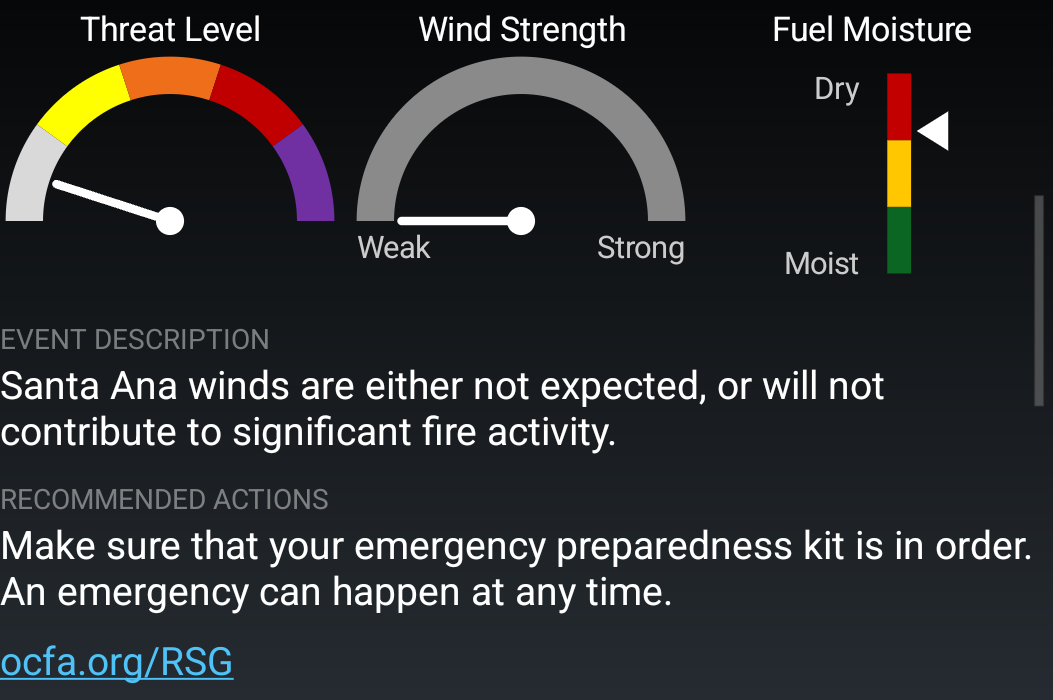
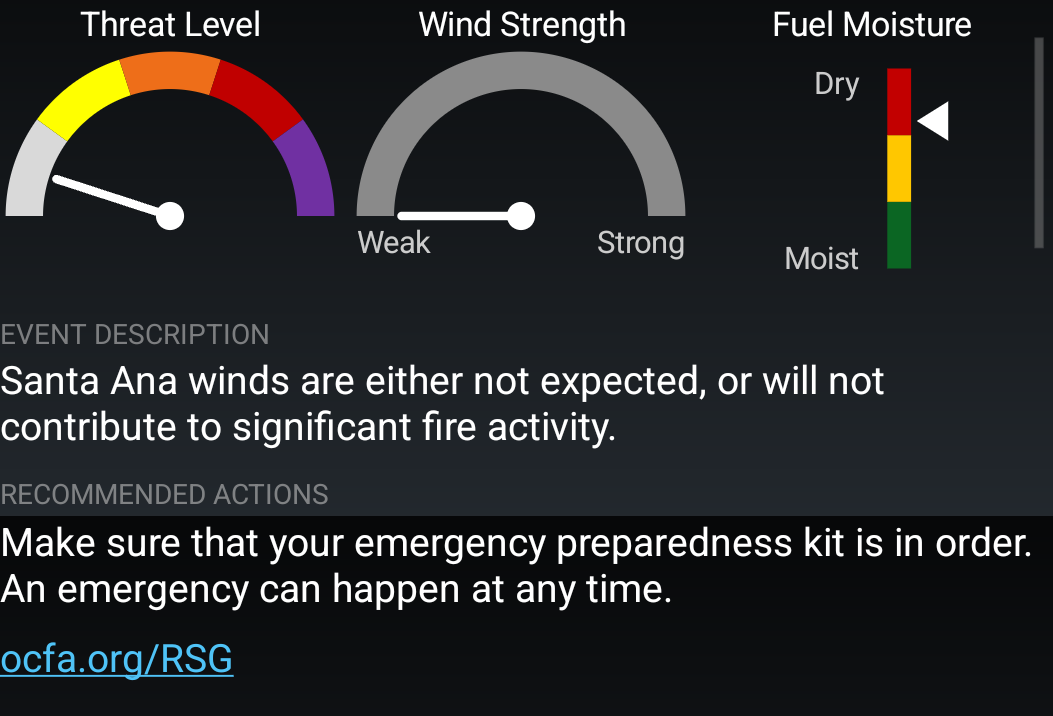
Atmosphere 0.11: version, download block, status; SAWTI page pictures
PLUGIN_VERSION 0.11 for 5.6, 5.7 and 5.8 (0.10 was the 5.8 picture build,
not published). README and guide download blocks re-stamped to v0.11;
status and capabilities name Fire Danger, utility stations and the rest.

SAWTI page pictures retaken from the signed 0.10 (top, gauges and actions,
All Zones, zone picker): the old set was dated Oct 1. The Fire Weather
Zones manual page puts its text beside its pictures; the new zones map is
taller and the text had spilled to a page of its own (53 pages).

diff --git a/README.md b/README.md
@@ -1,10 +1,10 @@
 ATAK Plugin — Atmosphere
 
-**Download Atmosphere 0.9** (pick the one matching your ATAK-CIV version, sideload, then load it in ATAK's Plugins manager):
+**Download Atmosphere 0.11** (pick the one matching your ATAK-CIV version, sideload, then load it in ATAK's Plugins manager):
 
-- **ATAK-CIV 5.6:** https://github.com/takwerx/atmosphere/releases/download/v0.9/ATAK-Plugin-Atmosphere-0.9--5.6.0-civ-release.apk
-- **ATAK-CIV 5.7:** https://github.com/takwerx/atmosphere/releases/download/v0.9/ATAK-Plugin-Atmosphere-0.9--5.7.0-civ-release.apk
-- **ATAK-CIV 5.8:** https://github.com/takwerx/atmosphere/releases/download/v0.9/ATAK-Plugin-Atmosphere-0.9--5.8.0-civ-release.apk
+- **ATAK-CIV 5.6:** https://github.com/takwerx/atmosphere/releases/download/v0.11/ATAK-Plugin-Atmosphere-0.11--5.6.0-civ-release.apk
+- **ATAK-CIV 5.7:** https://github.com/takwerx/atmosphere/releases/download/v0.11/ATAK-Plugin-Atmosphere-0.11--5.7.0-civ-release.apk
+- **ATAK-CIV 5.8:** https://github.com/takwerx/atmosphere/releases/download/v0.11/ATAK-Plugin-Atmosphere-0.11--5.8.0-civ-release.apk
 
 All releases: https://github.com/takwerx/atmosphere/releases
 
@@ -32,7 +32,9 @@ Capabilities:
   - Weather stations around you, colored against the Red Flag criteria of
     their own fire weather zone (the California, Great Basin, Southwest and
     Northwest annual operating plans are transcribed), with every reading and
-    the criteria behind a tap, favorites, and a list with counted filters.
+    the criteria behind a tap, favorites, and a list with counted filters. In
+    California, the utilities' stations too (SCE, SDG&E, PG&E, HPWREN, from
+    Cal OES), drawn apart and saying their wind reads higher than a RAWS.
   - River gauges colored by flood category, with stage, flow, flood stages and
     the observed and forecast hydrograph; buoys and coastal stations with
     their readings graded by sea state, the nearest tide and current
@@ -55,6 +57,11 @@ Capabilities:
     words and the recommended actions; NOAA's 15-minute lightning strike
     density; California's Public Safety Power Shutoffs from Cal OES (counties
     warned, power off, power back on), saying what it does not cover.
+  - Fire danger: every Predictive Service Area in the lower 48 shaded by its
+    Energy Release Component percentile, observed or forecast, from the
+    Forest Service's national service; tap an area's name for its ERC and
+    Burning Index and its GACC's own ERC chart, full screen to pinch and zoom.
+    Each fire weather zone gives the ERC of the area it is in.
   - Spot forecasts: every open request the National Weather Service has, with
     the office's forecast, newest or closest first and by type, and help
     preparing your own request.
@@ -72,15 +79,17 @@ Capabilities:
 _________________________________________________________________
 STATUS
 
-0.9, for ATAK-CIV 5.6, 5.7 and 5.8. New: SAWTI, the Santa Ana Wildfire Threat
-Index, on the map and as a page; lightning strike density; California's Public
-Safety Power Shutoffs. (0.8 was a picture build for the manual and was not
-published.) 0.7 brought fire weather zones and their planning forecast, spot
-forecasts newest or closest and by type, a tap that opens an item's page, and
-Title Case names. Developed on a
-Samsung Galaxy XCover Pro running ATAK-CIV 5.8.0.3 and checked on official
-ATAK-CIV 5.8 with the tak.gov-signed 0.8; compiled clean against the 5.6.0.23
-and 5.7.0.14 SDKs. The manual and the user guide carry screenshots from the
+0.11, for ATAK-CIV 5.6, 5.7 and 5.8. New: Fire Danger, the Energy Release
+Component by Predictive Service Area with each GACC's chart; California's
+utility weather stations; a Layers button in the top row; labels that stay
+level when the map turns; the smoke forecast at every zoom; fire weather zones
+outlined in purple; Atmosphere's drawn icons kept in ATAK's private storage
+rather than the shared card (takwerx/atmosphere#2). (0.10 was a picture build
+for the manual and was not published.) 0.9 brought SAWTI, lightning strike
+density and California's Public Safety Power Shutoffs. Developed on a Samsung
+Galaxy XCover Pro running ATAK-CIV 5.8.0.3 and checked on official ATAK-CIV
+5.8 with the tak.gov-signed 0.10; compiled clean against the 5.6.0.23 and
+5.7.0.14 SDKs. The manual and the user guide carry screenshots from the
 signed build.
 
 Parsers for every service are covered by unit tests that run off-device

diff --git a/docs/USER_GUIDE.md b/docs/USER_GUIDE.md
@@ -1,12 +1,12 @@
 # Atmosphere for ATAK — User Guide
 
-**Version 0.9 · takwerx**
+**Version 0.11 · takwerx**
 
-**Download Atmosphere 0.9** (pick the one matching your ATAK-CIV version, sideload, then load it in ATAK's Plugins manager):
+**Download Atmosphere 0.11** (pick the one matching your ATAK-CIV version, sideload, then load it in ATAK's Plugins manager):
 
-- **ATAK-CIV 5.6:** https://github.com/takwerx/atmosphere/releases/download/v0.9/ATAK-Plugin-Atmosphere-0.9--5.6.0-civ-release.apk
-- **ATAK-CIV 5.7:** https://github.com/takwerx/atmosphere/releases/download/v0.9/ATAK-Plugin-Atmosphere-0.9--5.7.0-civ-release.apk
-- **ATAK-CIV 5.8:** https://github.com/takwerx/atmosphere/releases/download/v0.9/ATAK-Plugin-Atmosphere-0.9--5.8.0-civ-release.apk
+- **ATAK-CIV 5.6:** https://github.com/takwerx/atmosphere/releases/download/v0.11/ATAK-Plugin-Atmosphere-0.11--5.6.0-civ-release.apk
+- **ATAK-CIV 5.7:** https://github.com/takwerx/atmosphere/releases/download/v0.11/ATAK-Plugin-Atmosphere-0.11--5.7.0-civ-release.apk
+- **ATAK-CIV 5.8:** https://github.com/takwerx/atmosphere/releases/download/v0.11/ATAK-Plugin-Atmosphere-0.11--5.8.0-civ-release.apk
 
 All releases: https://github.com/takwerx/atmosphere/releases
 
